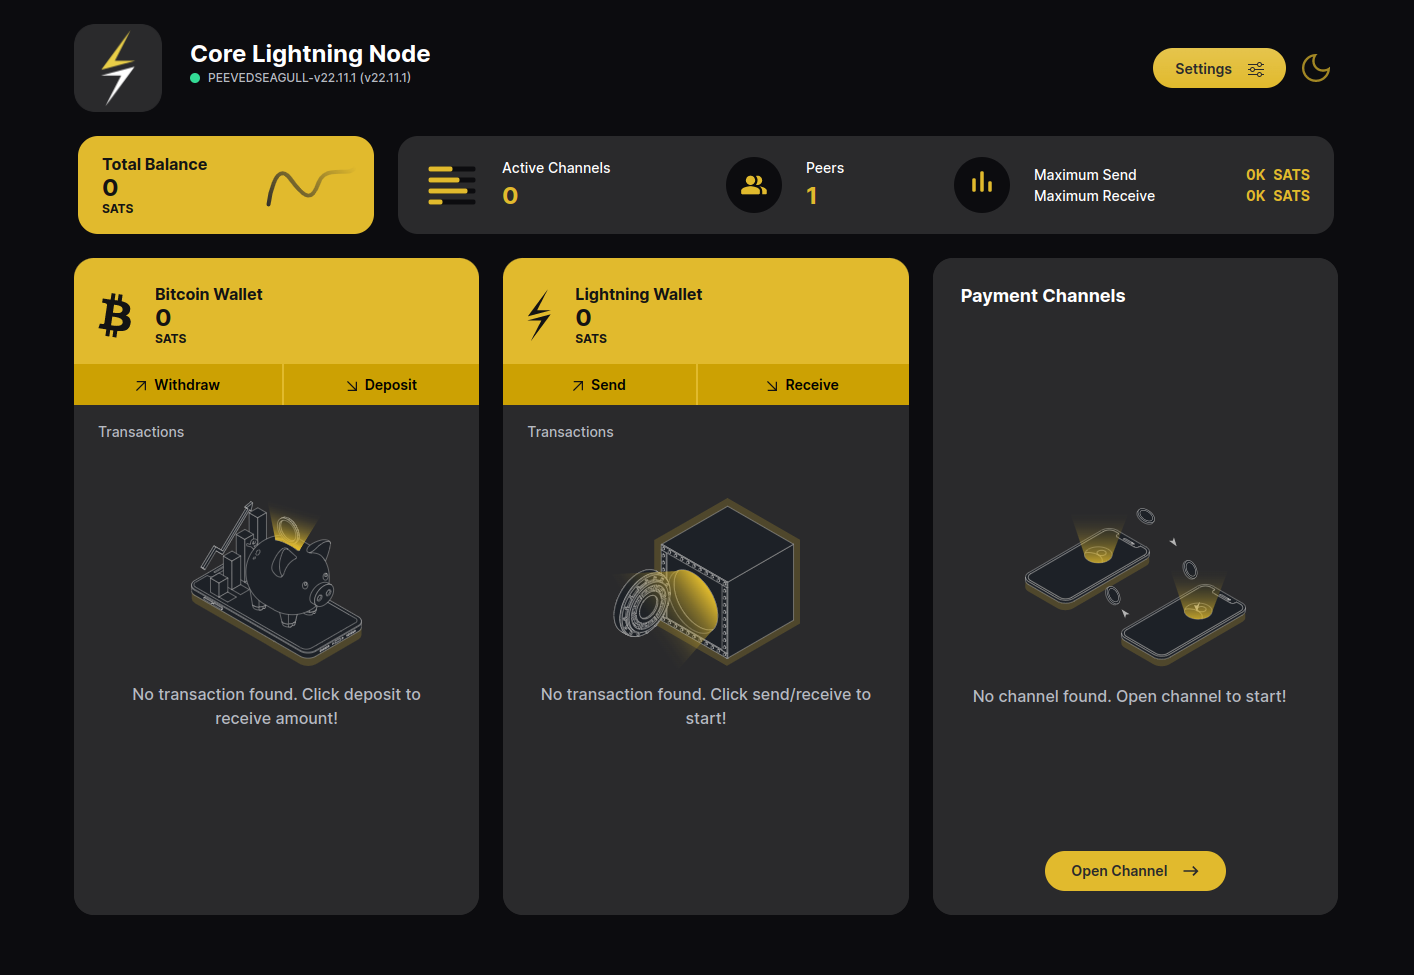
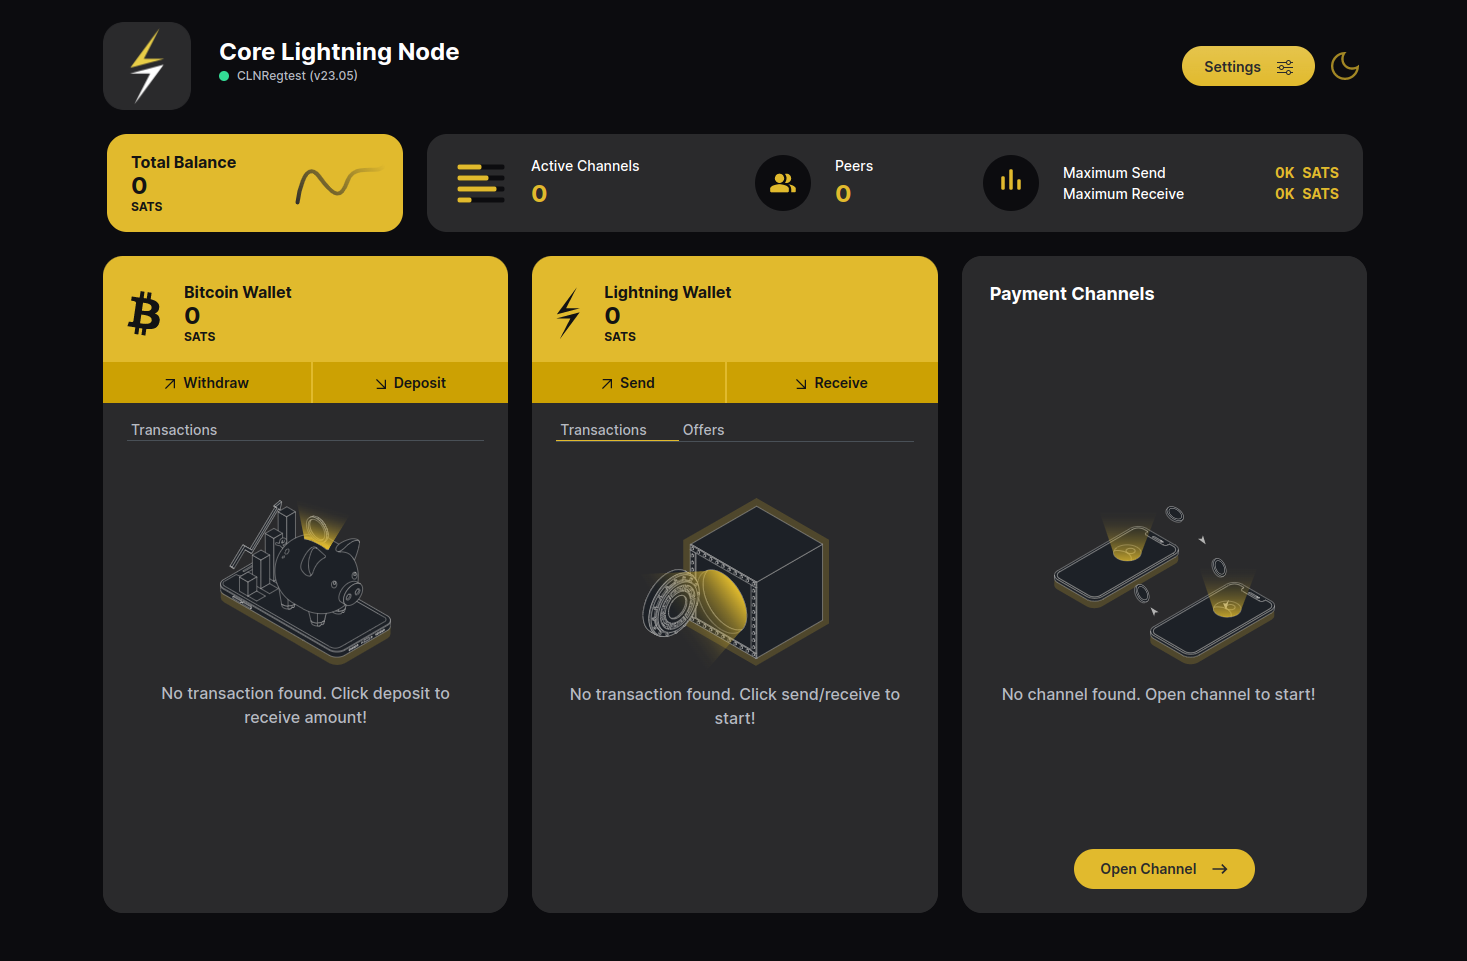
Round wallet balances for Sats
Round wallet balances for Sats

diff --git a/apps/frontend/src/components/cln/CLNTransactionsList/CLNTransactionsList.tsx b/apps/frontend/src/components/cln/CLNTransactionsList/CLNTransactionsList.tsx
@@ -145,8 +145,8 @@ export const CLNTransactionsList = () => {
           }
         </div>
       :
-        <Row className='text-light fs-6 h-75 mt-2 align-items-center justify-content-center'>
-          <Row className='d-flex align-items-center justify-content-center'>
+        <Row className='text-light fs-6 h-75 mt-5 align-items-center justify-content-center'>
+          <Row className='d-flex align-items-center justify-content-center mt-2'>
             { appCtx.appConfig.appMode === ApplicationModes.DARK ? 
               <NoCLNTransactionDarkSVG className='no-clntx-dark pb-1' /> :
               <NoCLNTransactionLightSVG className='no-clntx-light pb-1' />

diff --git a/apps/frontend/src/components/cln/CLNOffersList/CLNOffersList.tsx b/apps/frontend/src/components/cln/CLNOffersList/CLNOffersList.tsx
@@ -93,8 +93,8 @@ export const CLNOffersList = () => {
           }
         </div>
       :
-        <Row className='text-light fs-6 h-75 mt-2 align-items-center justify-content-center'>
-          <Row className='d-flex align-items-center justify-content-center'>
+        <Row className='text-light fs-6 h-75 mt-5 align-items-center justify-content-center'>
+          <Row className='d-flex align-items-center justify-content-center mt-2'>
             { appCtx.appConfig.appMode === ApplicationModes.DARK ? 
               <NoCLNTransactionDarkSVG className='no-clntx-dark pb-1' /> :
               <NoCLNTransactionLightSVG className='no-clntx-light pb-1' />

diff --git a/apps/frontend/src/store/AppContext.tsx b/apps/frontend/src/store/AppContext.tsx
@@ -168,6 +168,12 @@ const calculateBalances = (listFunds: Fund) => {
     }
     return walletBalances;
   });
+  walletBalances.btcReservedBalance = Math.round(walletBalances.btcReservedBalance);
+  walletBalances.btcSpendableBalance = Math.round(walletBalances.btcSpendableBalance);
+  walletBalances.clnInactiveBalance = Math.round(walletBalances.clnInactiveBalance);
+  walletBalances.clnLocalBalance = Math.round(walletBalances.clnLocalBalance);
+  walletBalances.clnPendingBalance = Math.round(walletBalances.clnPendingBalance);
+  walletBalances.clnRemoteBalance = Math.round(walletBalances.clnRemoteBalance);  
   return walletBalances;
 };
 
